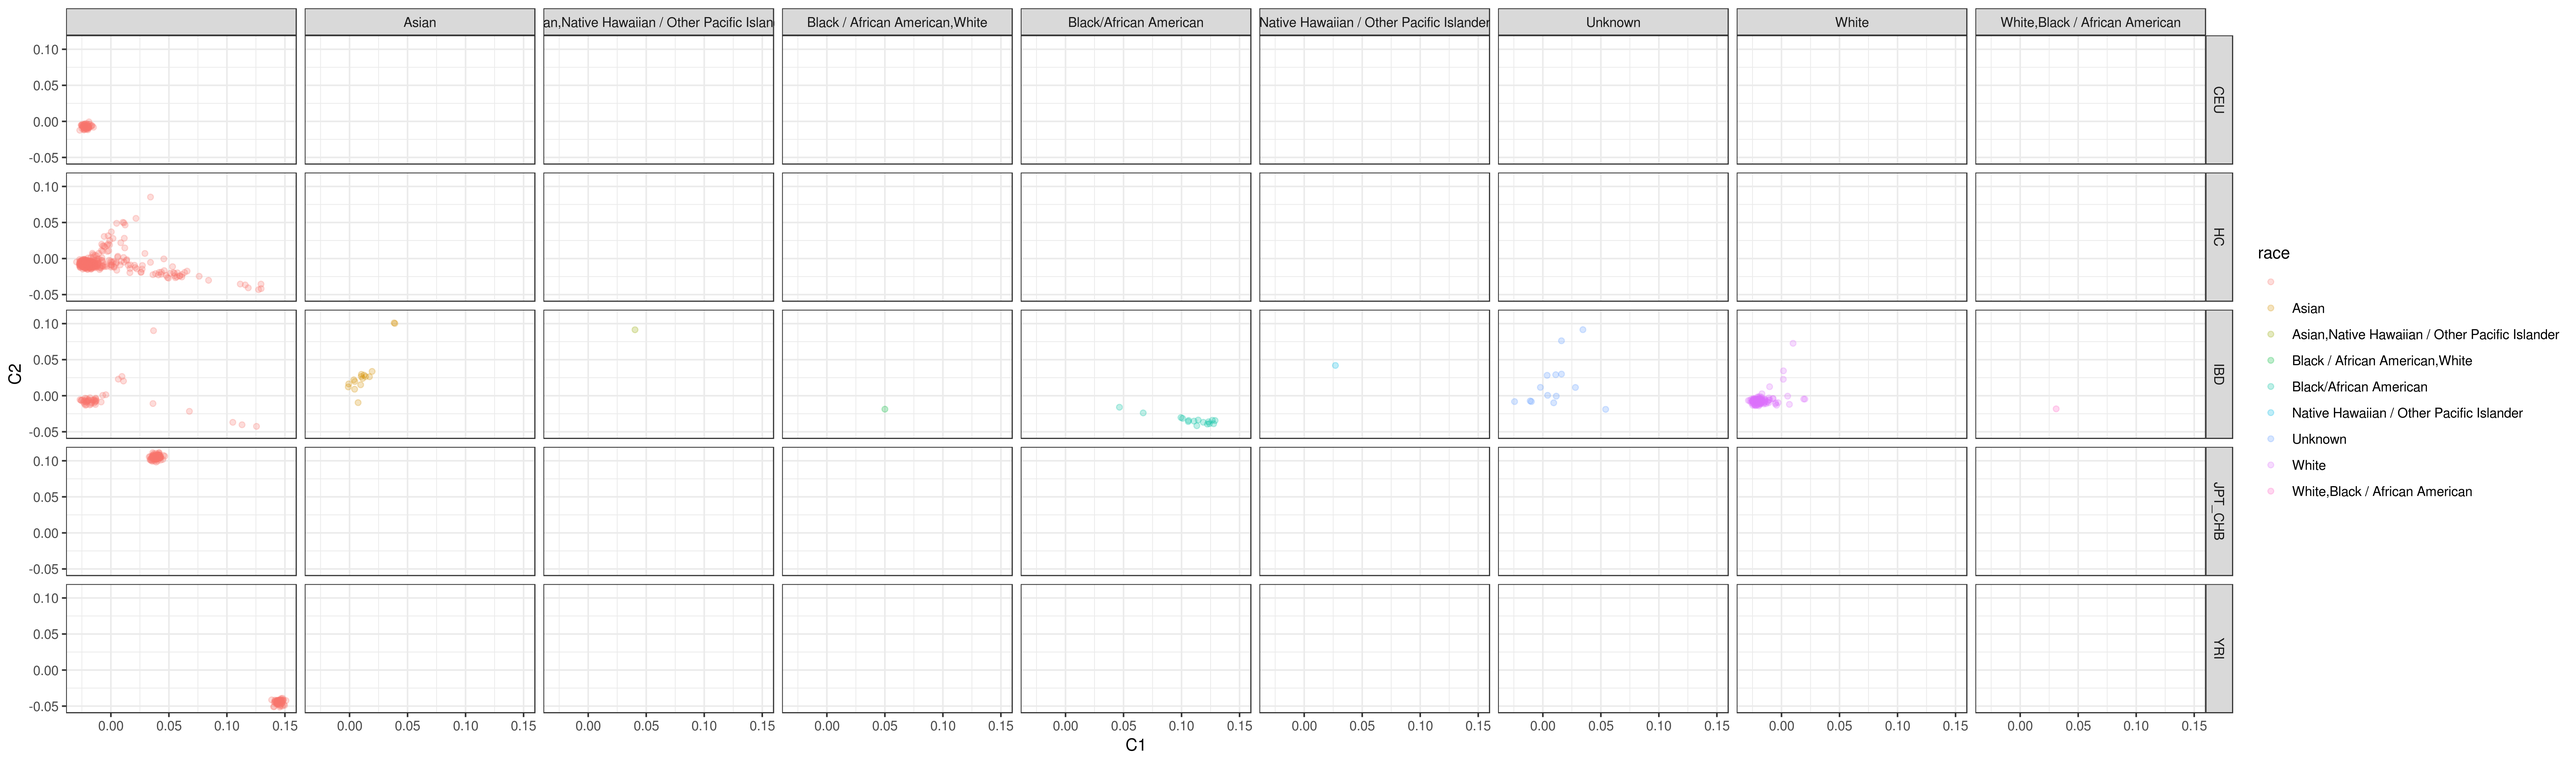
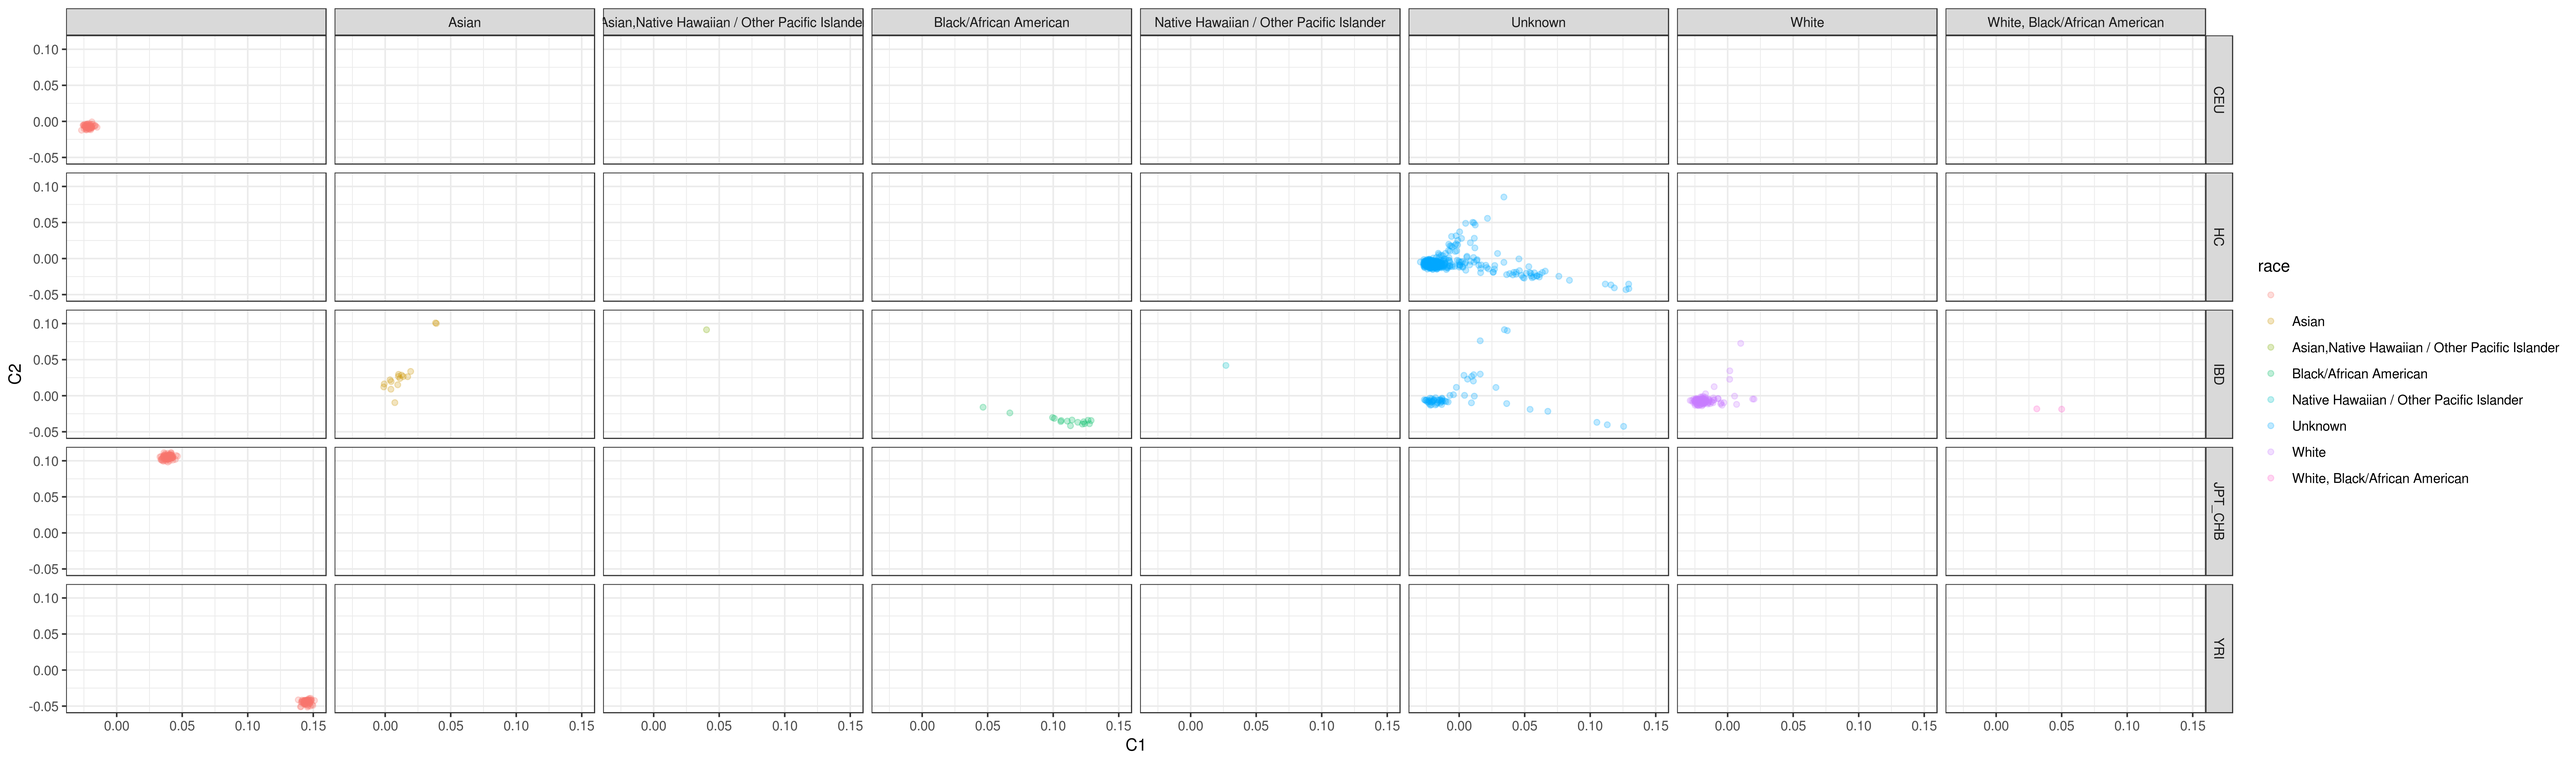
Fix race.

diff --git a/src/rules/sf_manifest.py b/src/rules/sf_manifest.py
@@ -33,13 +33,11 @@ rule format_manifest:
             return row['SSID']
 
         def fix_race(row):
-            if str(row['race']).strip() == '':
-                return 'Unknown'
             if row['race'] in ('White', 'white'):
                 return 'White'
             if row['race'] in ('Black / African American', 'Black/African American'):
                 return 'Black/African American'
-            if row['race'] in ('UN', 'Declined to Answer', 'Declined to answer'):
+            if row['race'] in ('UN', 'Declined to Answer', 'Declined to answer') or str(row['race']).strip() == '' or str(row['race'])=='nan':
                 return 'Unknown'
             if row['race'] in ('White,Black/African American', 'White,Black / African American', 'Black / African American,White'):
                 return 'White, Black/African American'
@@ -90,8 +88,8 @@ rule format_manifest:
         gsa_hc = load_gsa_samples(input.gsa_hc)
         gsa_veo = load_gsa_samples(input.gsa_veo)
         gsa = pd.read_csv(input.gsa_sex, sep='\t', header=None, names=['IID', 'gender'])
-        ls = [ [_, '-9', 'Unknown', 'Unknown'] for _ in gsa_hc]
-        hc_df = pd.DataFrame(ls, columns=['IID', 'gender','race','ethnicity'])
+        ls = [ [_, '-9'] for _ in gsa_hc]
+        hc_df = pd.DataFrame(ls, columns=['IID', 'gender',])
         def fix_gsa_gender(row):
             assert row['gender'] in ('M', 'F'), row['gender']
             return 'Female' if row['gender']=='F' else 'Male'
